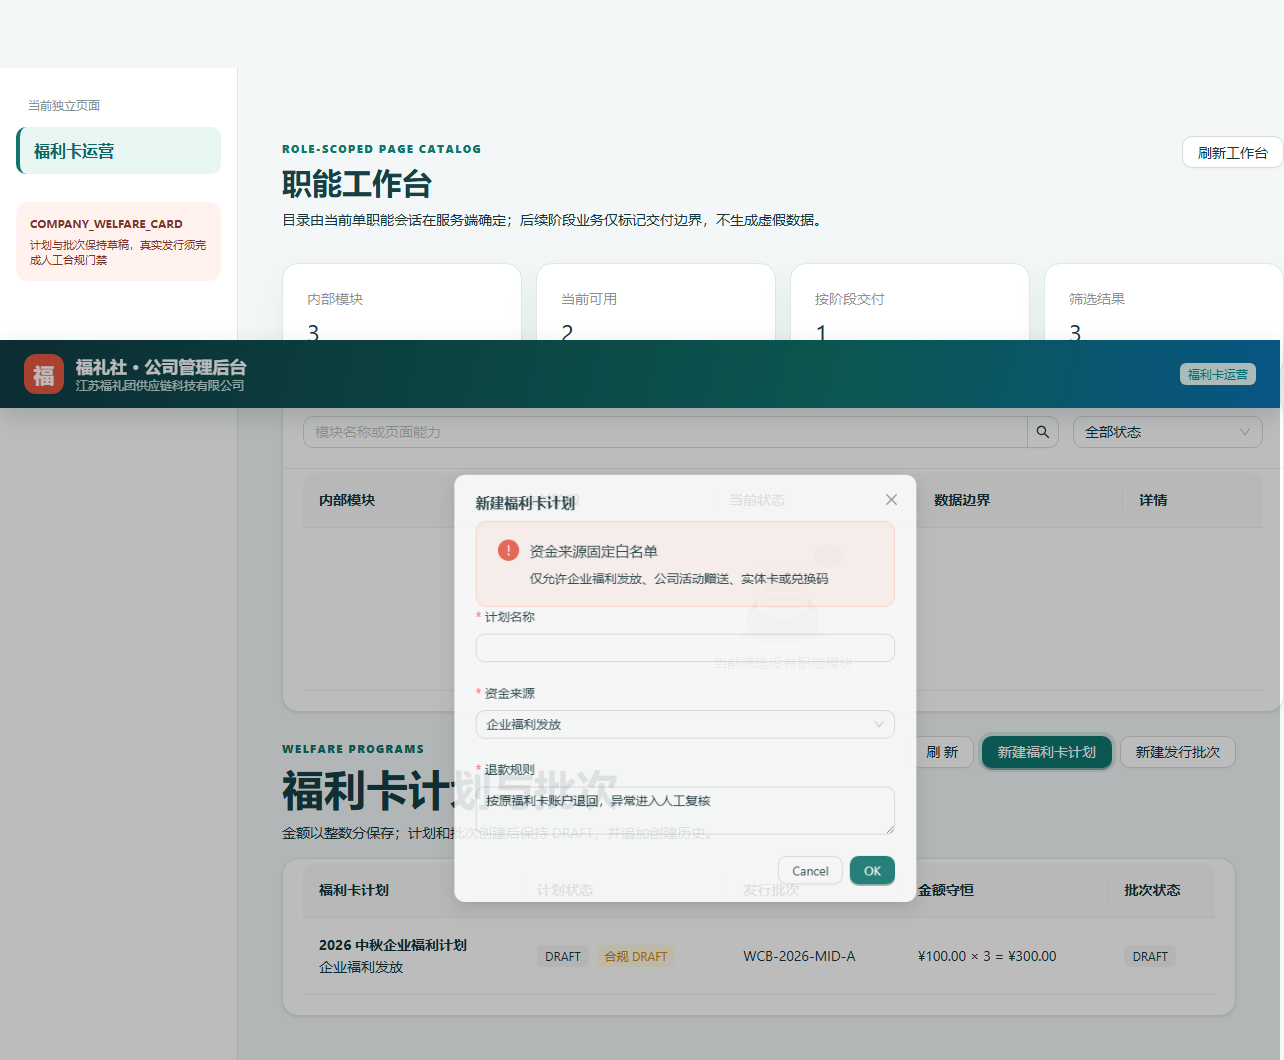
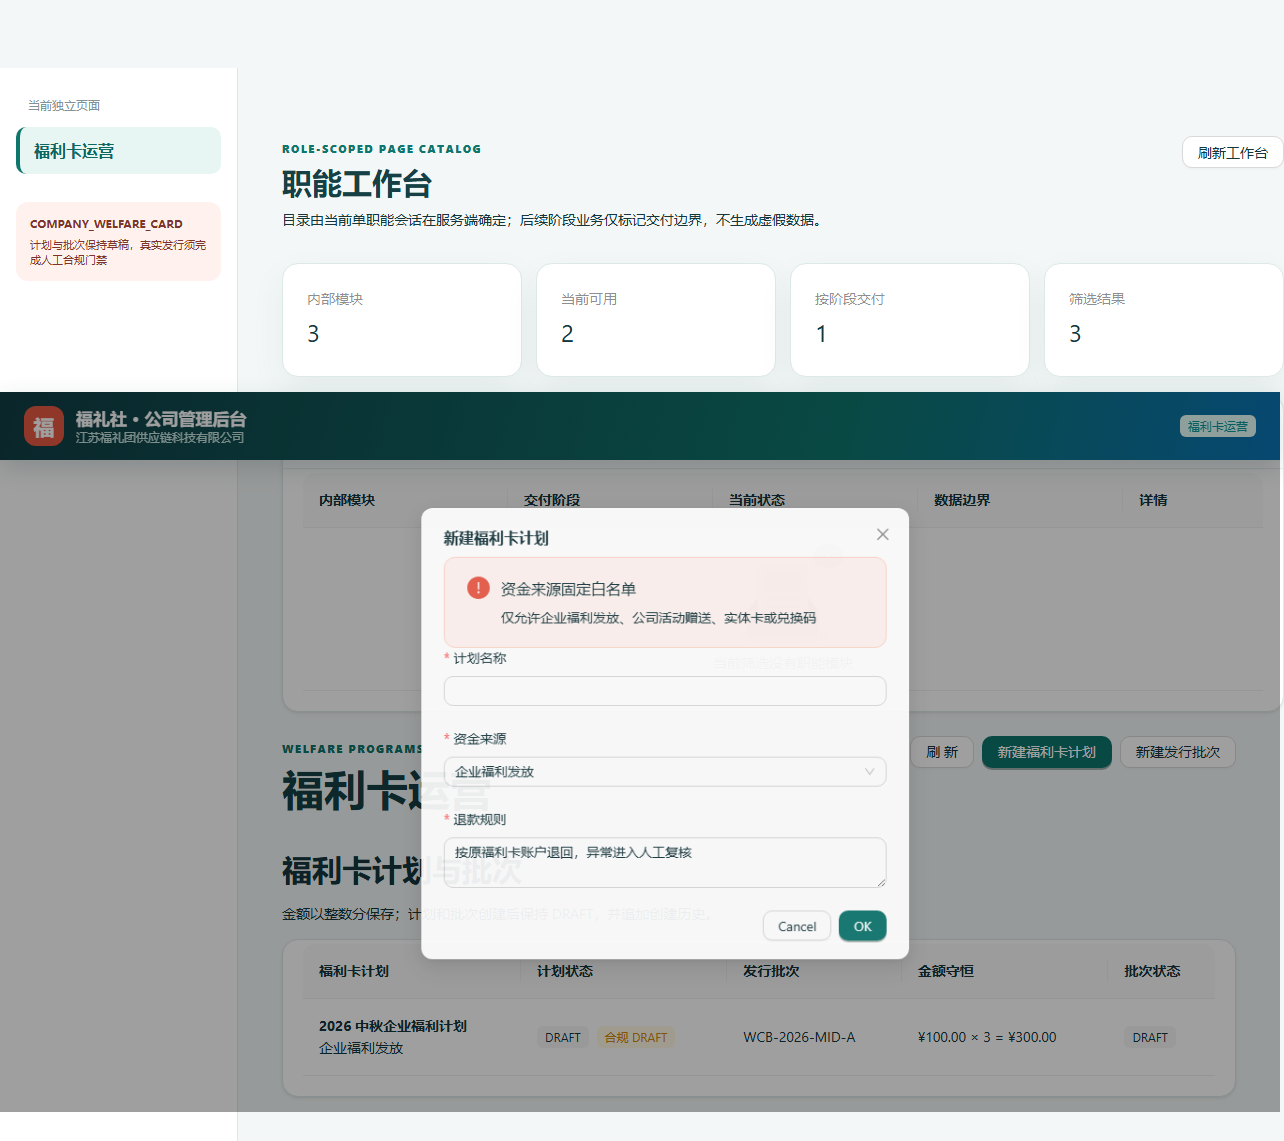
fix(m3): preserve welfare workspace shell contract

diff --git a/apps/company-admin/src/welfare-card-programs-page.tsx b/apps/company-admin/src/welfare-card-programs-page.tsx
@@ -74,11 +74,11 @@ export function WelfareCardProgramsPage({ workspace }: { readonly workspace: Com
     <main className="supplier-ops-page" data-page-id="PAGE-008" data-role="COMPANY_WELFARE_CARD">
       <header className="admin-topbar"><div className="brand-mark">福</div><div><strong>福礼社 · 公司管理后台</strong><span>江苏福礼团供应链科技有限公司</span></div><Tag color="cyan">福利卡运营</Tag></header>
       <div className="admin-shell">
-        <aside className="admin-sidebar"><Typography.Text className="sidebar-label">当前独立页面</Typography.Text><div className="active-menu">福利卡运营</div><div className="boundary-note"><strong>COMPANY_WELFARE_CARD</strong><span>计划与批次保持草稿，真实发行须完成人工合规门禁</span></div></aside>
+        <aside className="admin-sidebar"><Typography.Text className="sidebar-label">当前独立页面</Typography.Text><div className="active-menu" data-workspace-menu>福利卡运营</div><div className="boundary-note"><strong>COMPANY_WELFARE_CARD</strong><span>计划与批次保持草稿，真实发行须完成人工合规门禁</span></div></aside>
         <section className="admin-content">
           <CompanyWorkspacePagePanel workspace={workspace} />
           <section data-m3-slice="M3-P051">
-            <div className="page-title-row"><div><Typography.Text className="eyebrow">WELFARE PROGRAMS</Typography.Text><Typography.Title level={1}>福利卡计划与批次</Typography.Title><Typography.Paragraph>金额以整数分保存；计划和批次创建后保持 DRAFT，并追加创建历史。</Typography.Paragraph></div><Space><Button onClick={() => void load()}>刷新</Button><Button onClick={() => setProgramOpen(true)} type="primary">新建福利卡计划</Button><Button disabled={!data?.items.length} onClick={() => setBatchOpen(true)}>新建发行批次</Button></Space></div>
+            <div className="page-title-row"><div><Typography.Text className="eyebrow">WELFARE PROGRAMS</Typography.Text><Typography.Title level={1}>福利卡运营</Typography.Title><Typography.Title level={2}>福利卡计划与批次</Typography.Title><Typography.Paragraph>金额以整数分保存；计划和批次创建后保持 DRAFT，并追加创建历史。</Typography.Paragraph></div><Space><Button onClick={() => void load()}>刷新</Button><Button onClick={() => setProgramOpen(true)} type="primary">新建福利卡计划</Button><Button disabled={!data?.items.length} onClick={() => setBatchOpen(true)}>新建发行批次</Button></Space></div>
             {error ? <Alert action={<Button onClick={() => void load()}>重试</Button>} message={error} showIcon type="error" /> : null}
             <Card bordered={false} className="supplier-table-card">
               <Table<ProgramRow> loading={loading} dataSource={rows} rowKey="key" pagination={false} locale={{ emptyText: <Empty description="暂无福利卡计划" /> }} columns={[
